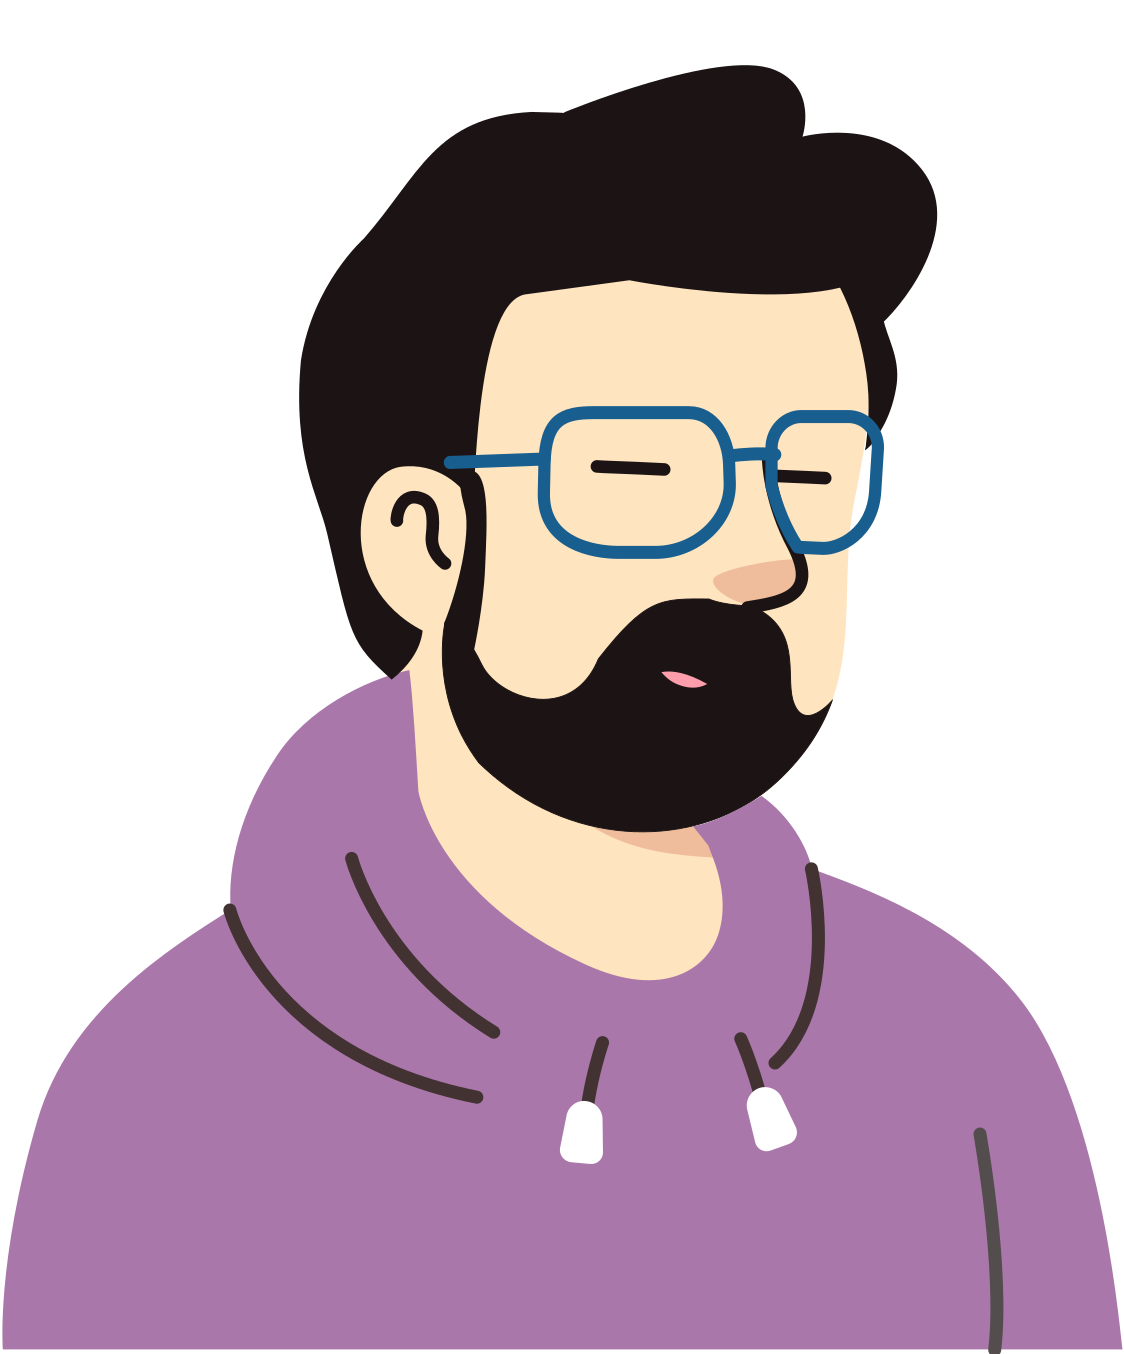
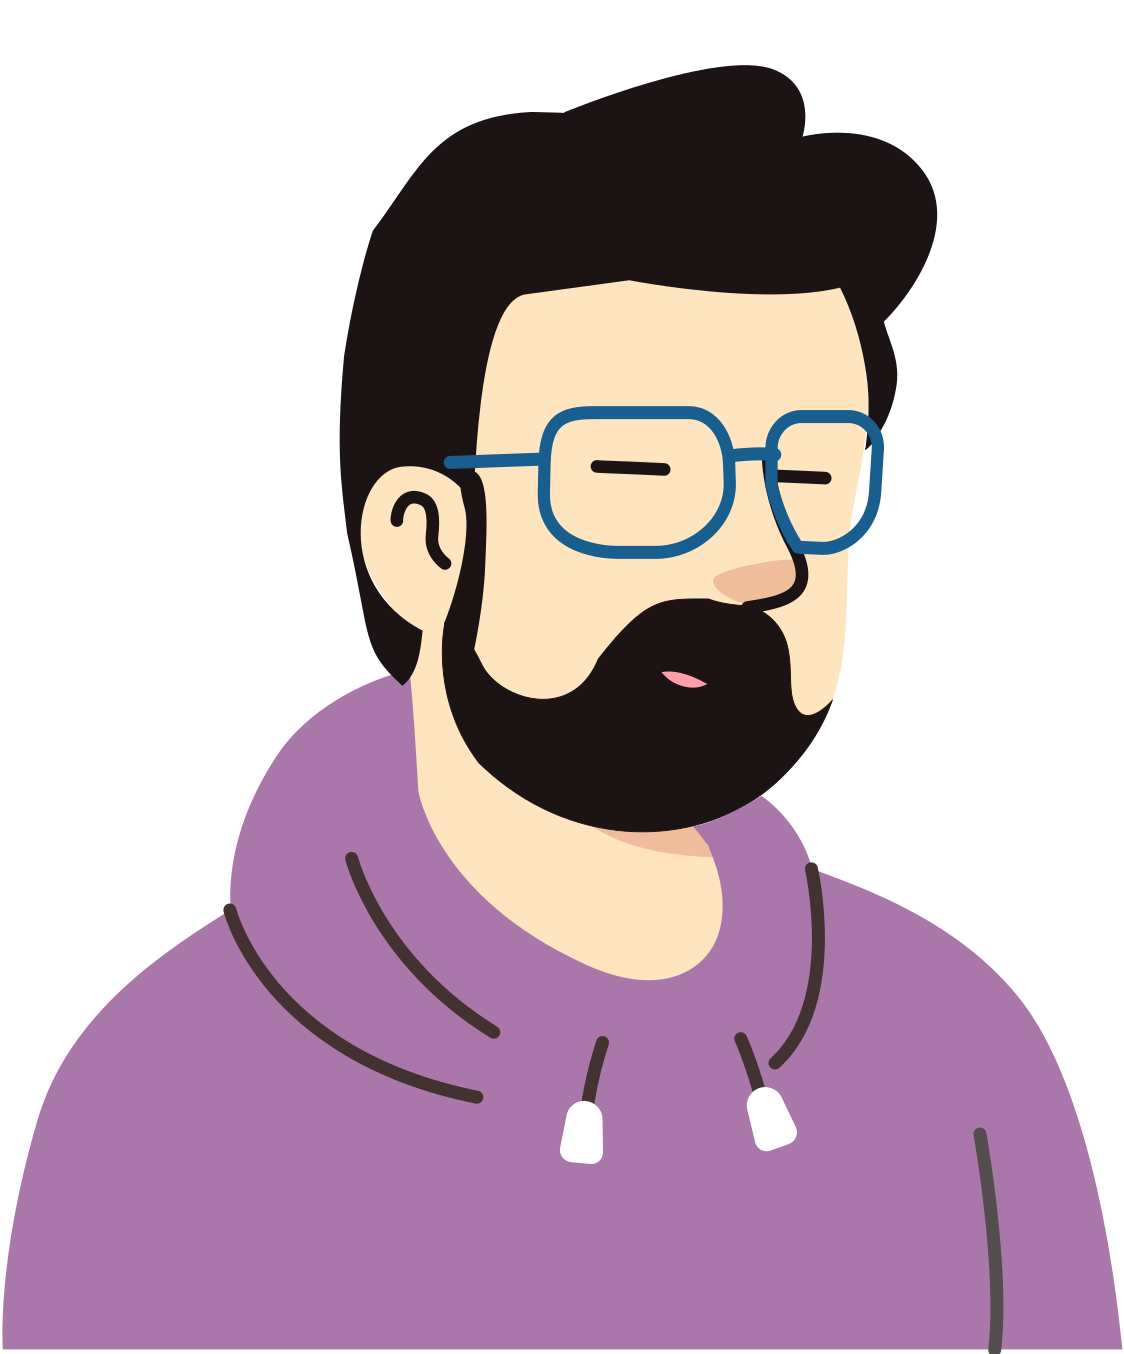
feat: add contact page

Changed region(s): [[0.2491, 0.1551, 0.3737, 0.5273]]

diff --git a/src/pages/Contact.js b/src/pages/Contact.js
@@ -1,0 +1,60 @@
+import React from "react";
+import TabContent from "../components/tab-content";
+
+const Code = `use lettre::{Message, SmtpTransport, Transport};
+use lettre::transport::smtp::authentication::Credentials;
+use lettre_email::Email;
+
+#[tokio::main]
+async fn main() -> Result<(), Box<dyn std::error::Error>> {
+    // Define your own sender
+    let sender = "your_email@example.com";
+    let recipient = "dbeltra@gmail.com";
+    let subject = "Hello David!";
+    let body = "Hello, I just wanted to contact you 😊";
+
+    // Create the email message
+    let email = Message::builder()
+        .from(sender.parse()?)
+        .to(recipient.parse()?)
+        .subject(subject)
+        .body(body.to_string())?;
+
+    // SMTP server details
+    let smtp_server = "smtp.gmail.com";
+    let smtp_port = 587;
+    let smtp_password = "your_email_password";
+
+    // Set up SMTP client
+    let creds = Credentials::new(sender.to_string(), smtp_password.to_string());
+    let mailer = SmtpTransport::relay(smtp_server)?
+        .credentials(creds)
+        .port(smtp_port)
+        .build();
+
+    // Contact me!
+    match mailer.send(&email).await {
+        Ok(_) => println!("Email sent successfully!"),
+        Err(e) => println!("Failed to send email: {:?}", e),
+    }
+
+    Ok(())
+}
+`;
+
+const ContactContent = () => {
+  return <div></div>;
+};
+
+const Contact = () => {
+  return (
+    <TabContent
+      code={Code}
+      language="rust"
+      Title="Contact Me"
+      Content={ContactContent}
+    ></TabContent>
+  );
+};
+
+export default Contact;

diff --git a/src/index.js b/src/index.js
@@ -7,6 +7,7 @@ import Layout from "./Layout";
 import About from "./pages/About";
 import Experience from "./pages/Experience";
 import Skills from "./pages/Skills";
+import Contact from "./pages/Contact";
 
 export default function App() {
   return (
@@ -16,6 +17,7 @@ export default function App() {
           <Route path="/" element={<About />} />
           <Route path="/experience" element={<Experience />} />
           <Route path="/skills" element={<Skills />} />
+          <Route path="/contact" element={<Contact />} />
         </Route>
       </Routes>
     </HashRouter>

diff --git a/src/components/nav-tabs.js b/src/components/nav-tabs.js
@@ -34,6 +34,15 @@ const NavTabs = () => {
       >
         <span className="">Skills.py</span>
       </Link>
+      <Link
+        to="/contact"
+        className={`
+          border-r border-gray-700 h-full px-3 flex items-center
+          ${isActive("/contact") ? "bg-gray-700" : "hover:bg-gray-800"}
+        `}
+      >
+        <span className="">Contact.rs</span>
+      </Link>
     </nav>
   );
 };

diff --git a/src/components/tab-content.js b/src/components/tab-content.js
@@ -71,7 +71,7 @@ const TabContent = ({ code, language, Title, Content }) => {
 
       <div className="bg-gray-700 p-4 overflow-y-scroll">
         <div className="border-b">{Title}</div>
-        <div className="p-2">
+        <div className="p-2 mt-4">
           <Content />
         </div>
       </div>

diff --git a/src/components/avatar.js b/src/components/avatar.js
@@ -88,7 +88,7 @@ const Avatar = () => {
   }, []);
 
   return (
-    <div className="bg-gray-400 h-32 w-32 overflow-hidden rounded-full relative mt-4">
+    <div className="bg-gray-400 h-32 w-32 overflow-hidden rounded-full relative">
       <img
         className="avatar"
         src={avatarImg}

diff --git a/src/components/sidebar.js b/src/components/sidebar.js
@@ -50,6 +50,7 @@ const Sidebar = () => {
                 icon: "description",
               },
               { to: "/skills", label: "Skills.py", icon: "description" },
+              { to: "/contact", label: "Contact.rs", icon: "description" },
             ]}
           />
         </div>

diff --git a/src/index.css b/src/index.css
@@ -128,6 +128,7 @@ code {
 
 .code-line .line-number {
   margin-right: 4px;
+  width: 1rem;
 }
 
 .code-line.highlighted .line-number {
